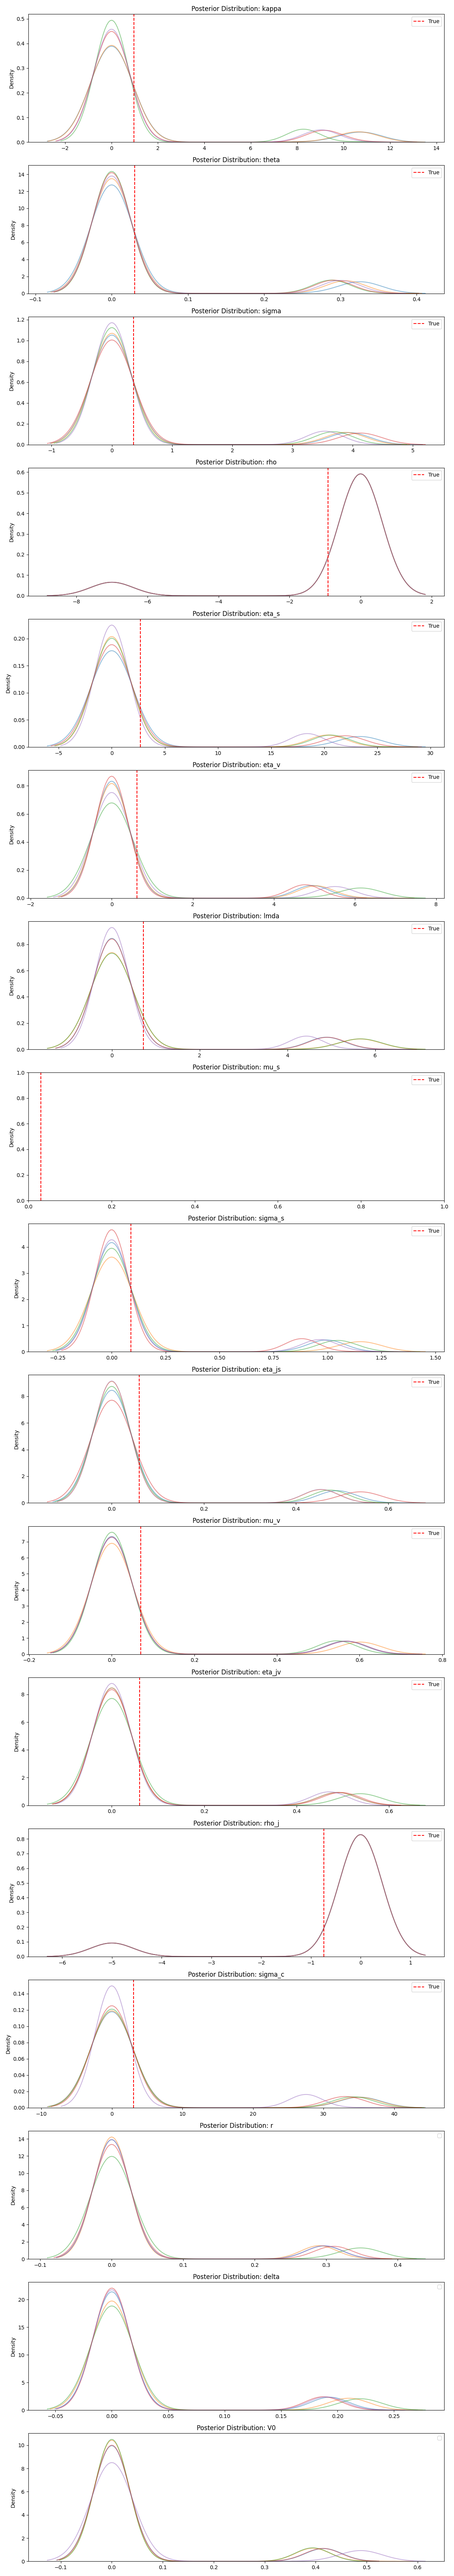
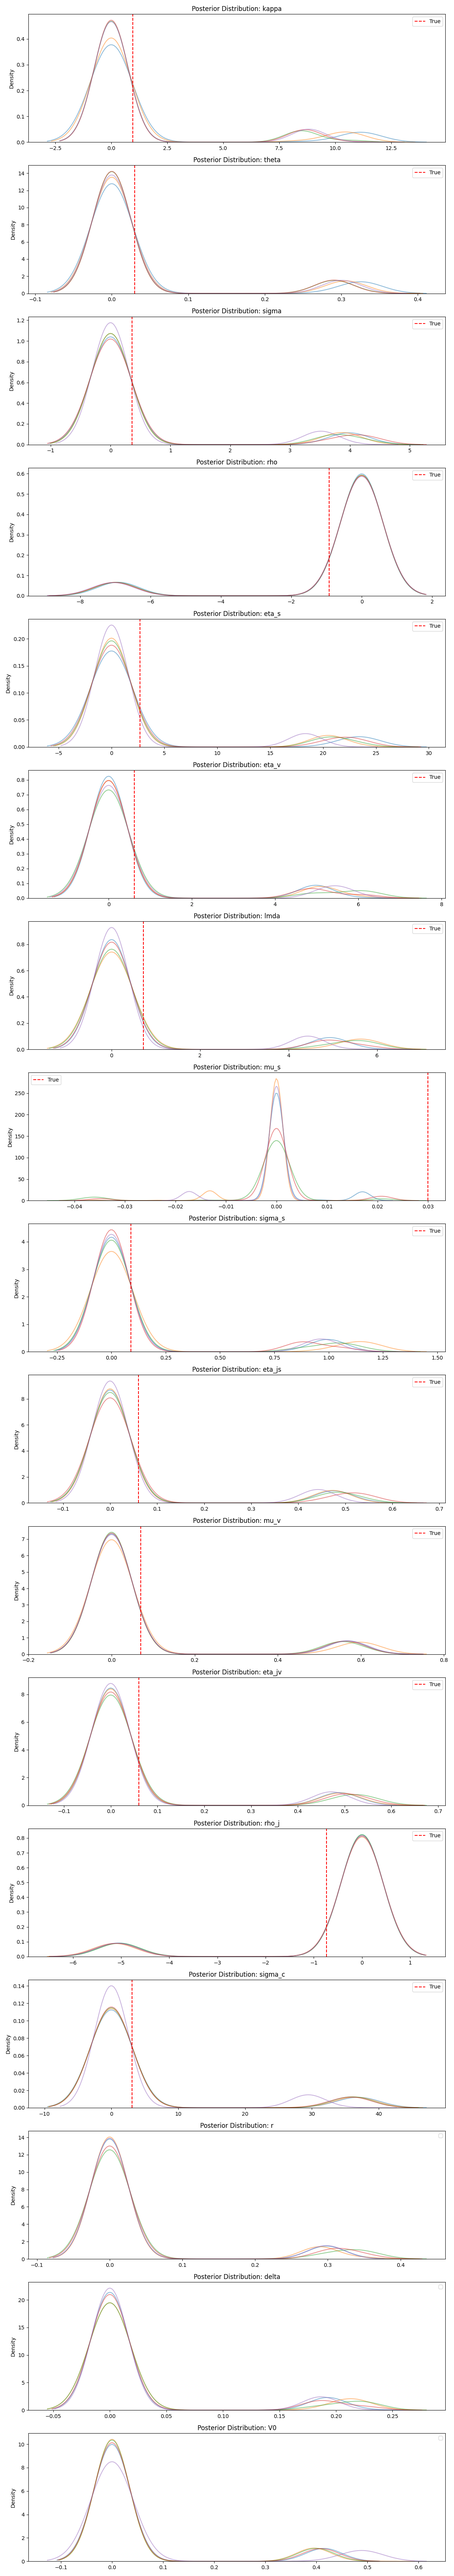
Updated the plot with the good acceptance rate

diff --git a/PMMH.py b/PMMH.py
@@ -105,7 +105,7 @@ class OptimizedPMMH:
                         
                         # Store parameters
                         for j, param_name in enumerate(param_names):
-                            chains[chain, iter, j] = new_params[param_name] # Apply scaling factor here
+                            chains[chain, iter, j] = new_params[param_name] * 10 # Apply scaling factor here
                         
                         accepted[chain] += was_accepted
                         
